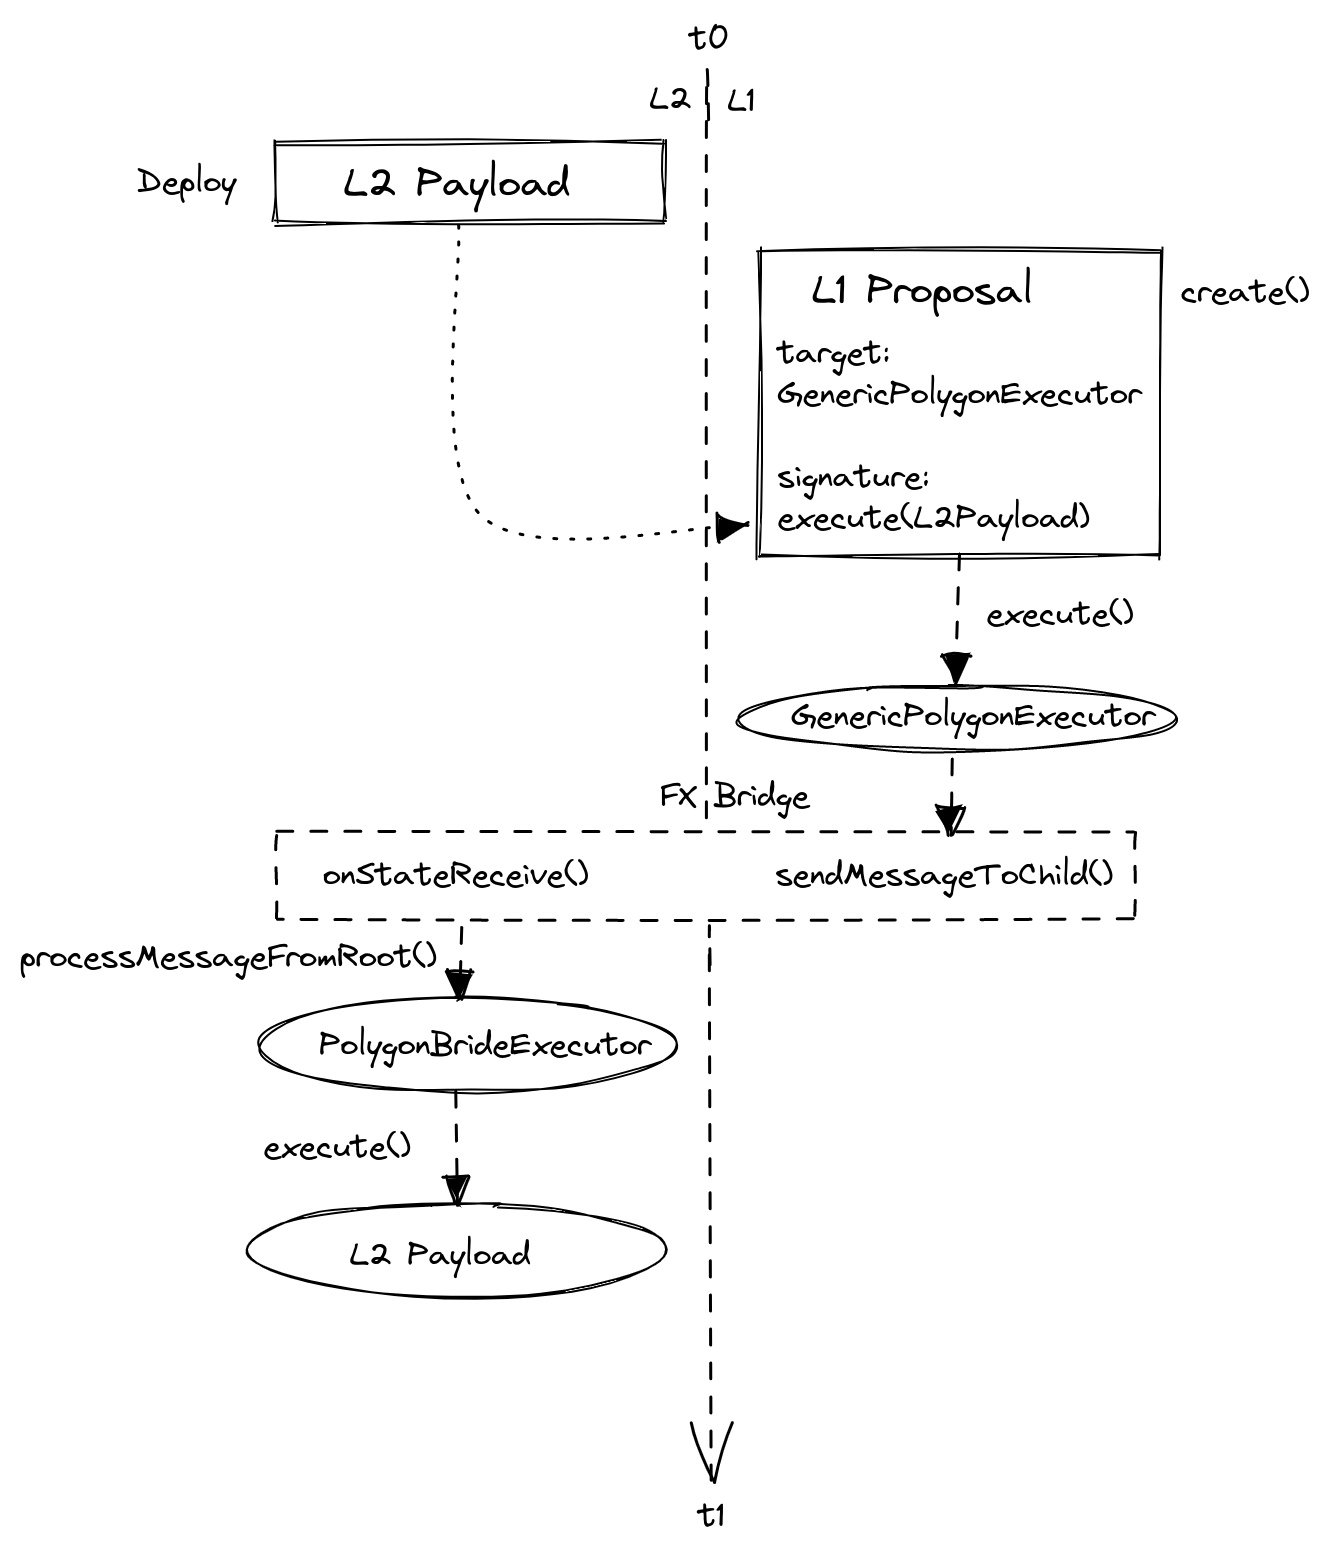
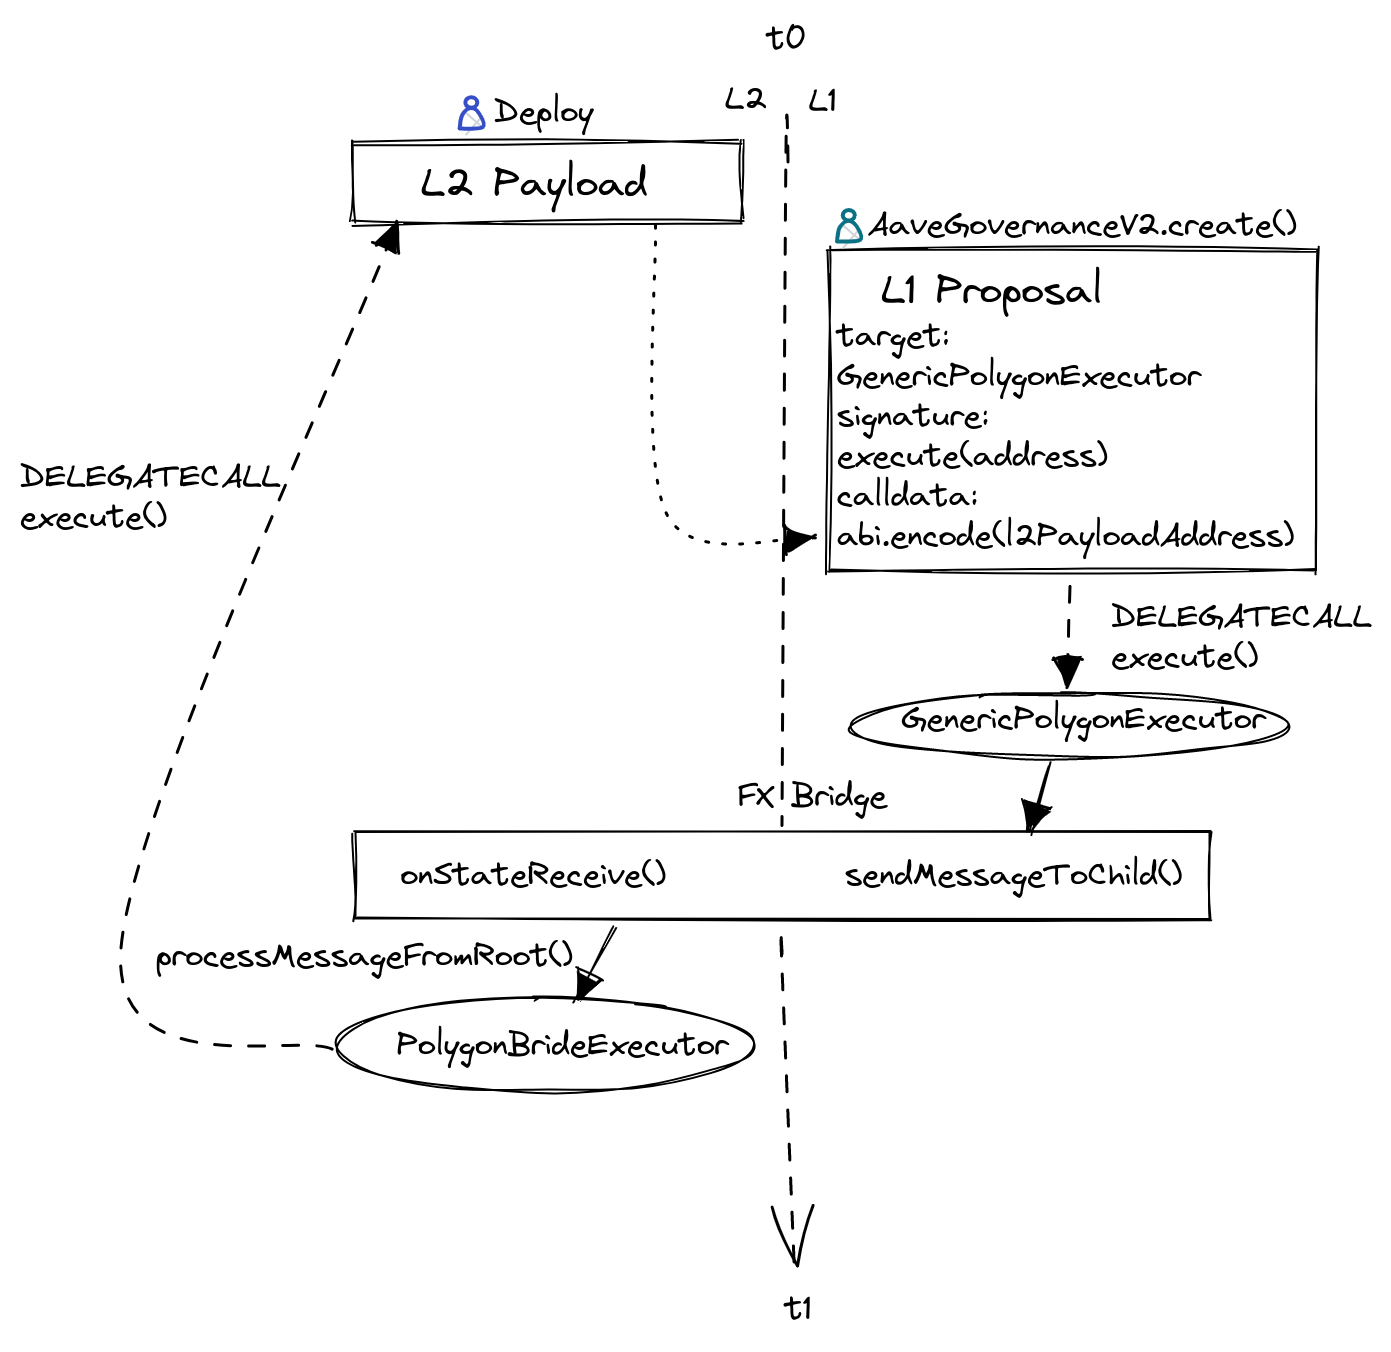
docs: update diagram

diff --git a/README.md b/README.md
@@ -1,4 +1,4 @@
-# BGD v3 bridge listing template
+# Aave v3 cross-chain listing template
 
 This template contains an opinionated smart contract template for creating proposals to list assets on the aave polygon v3 market.
 
@@ -14,8 +14,10 @@ To simplify the process of creating a cross chain proposal this repository conta
 
 To create a proposal you have to do two things:
 
-1. create and deploy the polygon payload for your proposal ([see MiMatic as reference](/src/contracts/polygon/MiMaticPayload.sol))
-2. run the deploy script to create the mainnet proposal
+1. deploy the Polygon Payload ([see MiMatic](/src/contracts/polygon/MiMaticPayload.sol))
+2. create the mainnet proposal ([see DeployL1Proposal](/script/DeployL1Proposal.s.sol))
+
+While the order of actions is important as the mainnet proposal needs the l2 payload address, both actions can be performed by different parties / addresses.
 
 ## References
 
